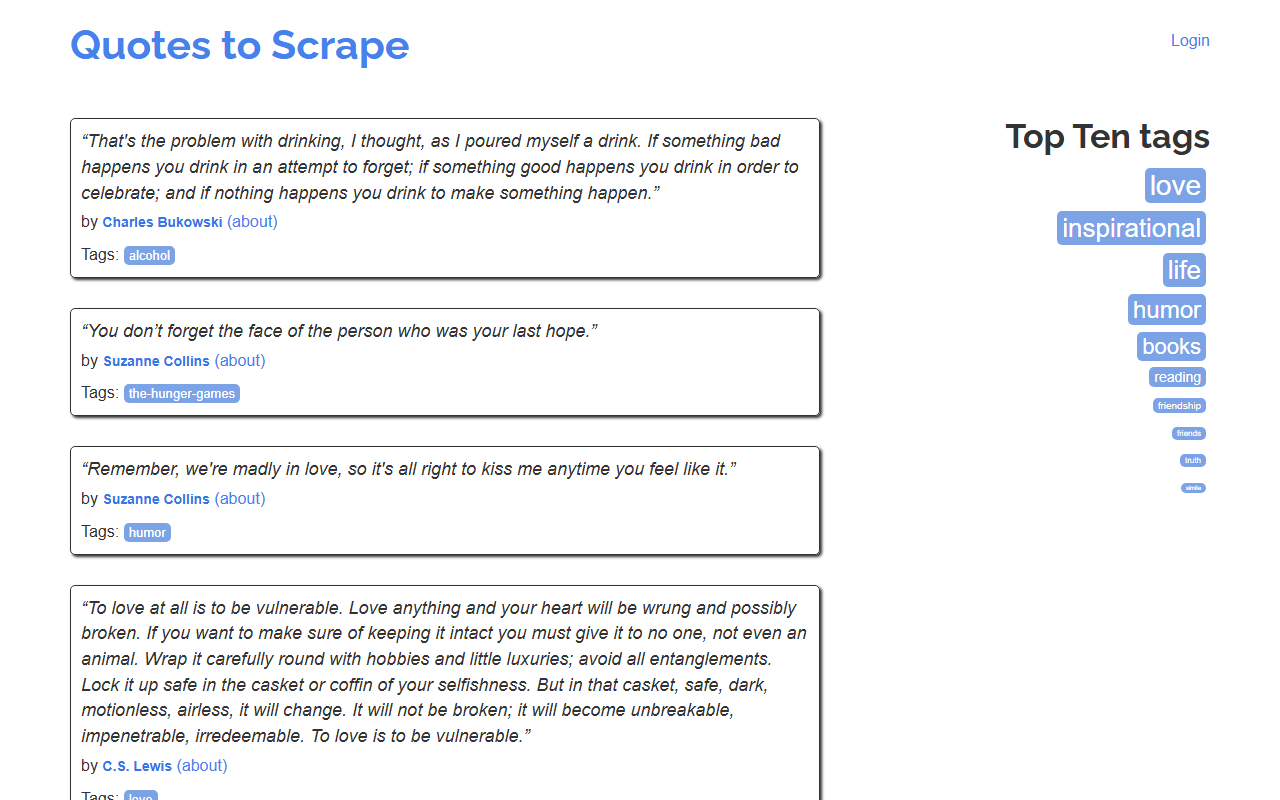
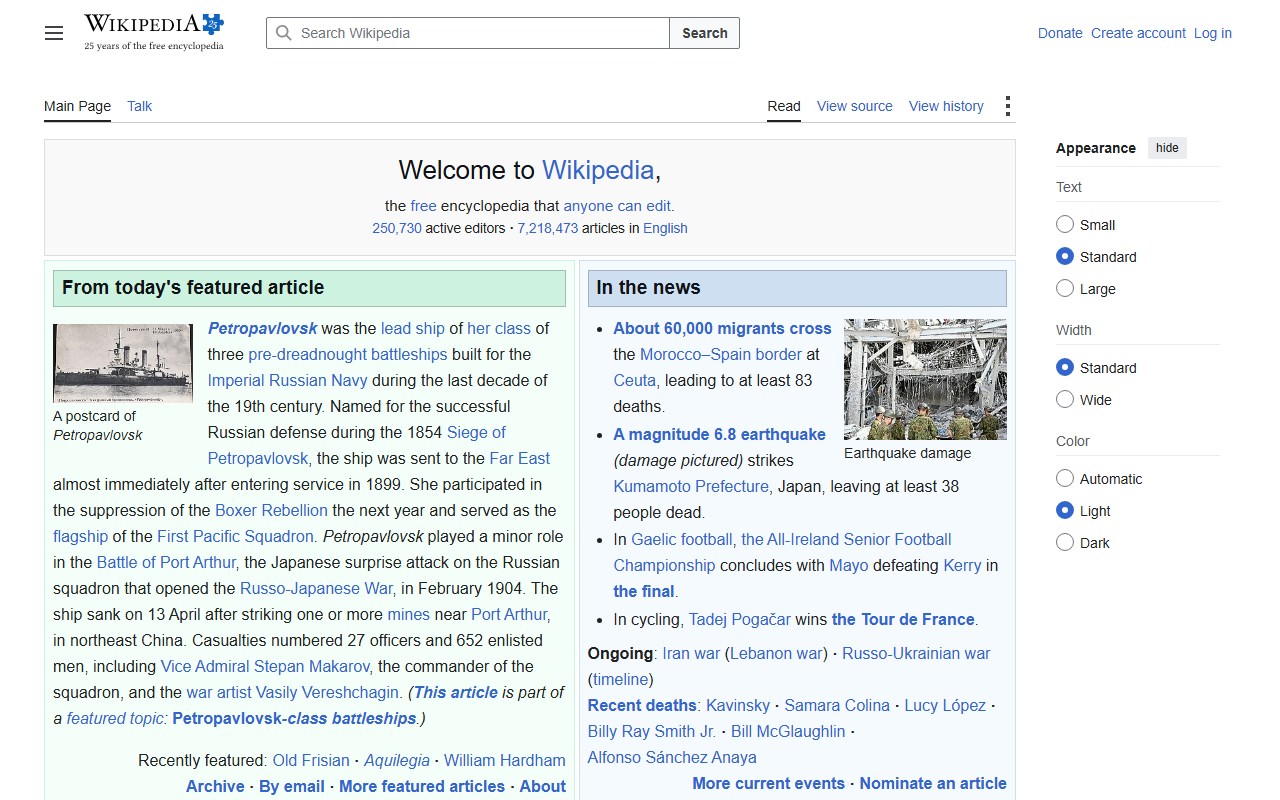
refactor(actions): implement execute_visual_action dispatcher and coordinate bounds clamping

diff --git a/browser-agent/browser/actions.py b/browser-agent/browser/actions.py
@@ -1,169 +1,166 @@
 import time
 import logging
-from typing import Dict, Any
+from typing import Dict, Any, Tuple, Optional
 from playwright.sync_api import TimeoutError as PlaywrightTimeoutError, Error as PlaywrightError
 from browser.controller import BrowserController
 
 logger = logging.getLogger("browser_agent.browser.actions")
+
+def validate_and_clamp_coordinates(
+    x: int,
+    y: int,
+    viewport_w: int,
+    viewport_h: int
+) -> Tuple[int, int]:
+    """
+    Validates and clamps pixel coordinates within active viewport boundaries [0, viewport_w - 1] x [0, viewport_h - 1].
+    Logs warnings if predicted coordinates fall outside visual boundaries.
+    """
+    clamped_x = max(0, min(int(x), viewport_w - 1))
+    clamped_y = max(0, min(int(y), viewport_h - 1))
+
+    if clamped_x != x or clamped_y != y:
+        logger.warning(
+            f"Coordinate out of bounds warning: Predicted ({x}, {y}) clamped to ({clamped_x}, {clamped_y}) "
+            f"for viewport ({viewport_w}x{viewport_h})."
+        )
+
+    return clamped_x, clamped_y
+
+def execute_visual_action(
+    controller: BrowserController,
+    action_data: Dict[str, Any]
+) -> Tuple[bool, str]:
+    """
+    Translates visual AI decisions into direct Playwright mouse and keyboard hardware commands.
+    Returns tuple: (success_bool, message_str).
+    """
+    action_type = action_data.get("action")
+    reasoning = action_data.get("reasoning", "")
+    viewport_w, viewport_h = controller.get_viewport_dimensions()
+
+    try:
+        if action_type in ("click", "click_coordinate"):
+            x = action_data.get("x")
+            y = action_data.get("y")
+
+            if x is None or y is None:
+                # Fallback if selector is provided
+                selector = action_data.get("selector")
+                if selector:
+                    controller.click(selector)
+                    return True, f"Clicked selector '{selector}'"
+                return False, "Click action requires 'x' and 'y' pixel coordinates or a selector."
+
+            cx, cy = validate_and_clamp_coordinates(x, y, viewport_w, viewport_h)
+            controller.mouse_move(cx, cy)
+            controller.mouse_click(cx, cy)
+            time.sleep(0.5)
+            return True, f"Clicked at ({cx}, {cy})"
+
+        elif action_type == "type":
+            text = action_data.get("text", "")
+            x = action_data.get("x")
+            y = action_data.get("y")
+
+            if x is not None and y is not None:
+                cx, cy = validate_and_clamp_coordinates(x, y, viewport_w, viewport_h)
+                controller.mouse_move(cx, cy)
+                controller.mouse_click(cx, cy)
+                time.sleep(0.2)
+                # Clear existing field value with Ctrl+A -> Backspace
+                controller.page.keyboard.press("Control+a")
+                controller.page.keyboard.press("Backspace")
+                time.sleep(0.1)
+
+            controller.keyboard_type(text)
+            time.sleep(0.5)
+            pos_str = f" at ({x}, {y})" if x is not None and y is not None else ""
+            return True, f"Typed '{text}'{pos_str}"
+
+        elif action_type in ("key", "keyboard_press"):
+            key_name = action_data.get("text") or action_data.get("value") or action_data.get("key", "Enter")
+            controller.keyboard_press(key_name)
+            time.sleep(0.5)
+            return True, f"Pressed key '{key_name}'"
+
+        elif action_type == "scroll":
+            direction = str(action_data.get("direction") or action_data.get("selector") or "down").lower()
+            amount = int(action_data.get("amount", 500))
+
+            delta_x, delta_y = 0, 0
+            if direction == "down":
+                delta_y = amount
+            elif direction == "up":
+                delta_y = -amount
+            elif direction == "right":
+                delta_x = amount
+            elif direction == "left":
+                delta_x = -amount
+            else:
+                delta_y = amount
+
+            controller.mouse_scroll(delta_x, delta_y)
+            return True, f"Scrolled {direction} by {amount}px"
+
+        elif action_type == "drag_and_drop":
+            start_x = action_data.get("start_x", 0)
+            start_y = action_data.get("start_y", 0)
+            end_x = action_data.get("end_x", 0)
+            end_y = action_data.get("end_y", 0)
+
+            cs_x, cs_y = validate_and_clamp_coordinates(start_x, start_y, viewport_w, viewport_h)
+            ce_x, ce_y = validate_and_clamp_coordinates(end_x, end_y, viewport_w, viewport_h)
+
+            controller.page.mouse.move(cs_x, cs_y)
+            controller.page.mouse.down()
+            controller.page.mouse.move(ce_x, ce_y, steps=10)
+            controller.page.mouse.up()
+            time.sleep(0.5)
+            return True, f"Dragged from ({cs_x}, {cs_y}) to ({ce_x}, {ce_y})"
+
+        elif action_type == "select":
+            selector = action_data.get("selector")
+            value = action_data.get("value") or action_data.get("text") or ""
+            if selector:
+                controller.select_option(selector, value)
+                return True, f"Selected option '{value}' in '{selector}'"
+            return False, "Select action requires a selector."
+
+        elif action_type == "wait":
+            time.sleep(2)
+            return True, "Waited 2 seconds for page load."
+
+        elif action_type == "done":
+            return True, f"Task completed by agent: {reasoning}"
+
+        else:
+            return False, f"Unknown action type '{action_type}'"
+
+    except PlaywrightTimeoutError as te:
+        logger.error(f"Playwright Timeout Error during action '{action_type}': {te}")
+        return False, f"Action '{action_type}' timed out."
+
+    except PlaywrightError as pe:
+        logger.error(f"Playwright Error during action '{action_type}': {pe}")
+        return False, f"Playwright error during action '{action_type}': {pe}"
+
+    except Exception as e:
+        logger.error(f"Unexpected error executing action '{action_type}': {e}")
+        return False, f"Execution exception: {e}"
 
 def execute_action(
     controller: BrowserController,
     action_dict: Dict[str, Any]
 ) -> Dict[str, Any]:
     """
-    Executes action dictionary safely with structured error outputs, coordinate clicks, and stale element recovery.
+    Legacy wrapper maintaining backward compatibility for existing code callers.
+    Returns structured dictionary.
     """
-    action_type = action_dict.get("action")
-    selector = action_dict.get("selector")
-    text = action_dict.get("text")
-    value = action_dict.get("value")
-    x = action_dict.get("x")
-    y = action_dict.get("y")
-    reasoning = action_dict.get("reasoning", "")
-
-    logger.info(f"Executing Action: '{action_type}' | Selector: '{selector}' | Coords: ({x}, {y}) | Text: '{text}' | Value: '{value}'")
-
-    try:
-        if action_type in ("click_coordinate", "click") and (x is not None and y is not None):
-            controller.click_coordinate(int(x), int(y))
-            time.sleep(1)
-            return {
-                "success": True,
-                "error_type": None,
-                "message": f"Successfully clicked pixel coordinates ({x}, {y}).",
-                "stale_element": False
-            }
-
-        elif action_type == "click":
-            if not selector:
-                return {
-                    "success": False,
-                    "error_type": "missing_selector",
-                    "message": "Click action requires a valid 'selector' or (x, y) coordinates.",
-                    "stale_element": False
-                }
-            try:
-                controller.click(selector)
-            except PlaywrightTimeoutError:
-                logger.warning(f"Click selector '{selector}' timed out. Re-attempting locator check...")
-                time.sleep(1)
-                controller.click(selector, timeout=5000)
-
-            time.sleep(1)
-            return {
-                "success": True,
-                "error_type": None,
-                "message": f"Successfully clicked '{selector}'.",
-                "stale_element": False
-            }
-
-        elif action_type == "type":
-            if not selector:
-                return {
-                    "success": False,
-                    "error_type": "missing_selector",
-                    "message": "Type action requires a valid 'selector'.",
-                    "stale_element": False
-                }
-            if text is None:
-                text = ""
-            try:
-                controller.type_text(selector, text)
-            except PlaywrightTimeoutError:
-                logger.warning(f"Type selector '{selector}' timed out. Re-attempting locator check...")
-                time.sleep(1)
-                controller.type_text(selector, text, timeout=5000)
-
-            time.sleep(1)
-            return {
-                "success": True,
-                "error_type": None,
-                "message": f"Successfully typed '{text}' into '{selector}'.",
-                "stale_element": False
-            }
-
-        elif action_type == "select":
-            if not selector:
-                return {
-                    "success": False,
-                    "error_type": "missing_selector",
-                    "message": "Select action requires a valid 'selector'.",
-                    "stale_element": False
-                }
-            target_value = value or text or ""
-            try:
-                controller.select_option(selector, target_value)
-            except PlaywrightTimeoutError:
-                logger.warning(f"Select option '{target_value}' in '{selector}' timed out. Retrying...")
-                time.sleep(1)
-                controller.select_option(selector, target_value, timeout=5000)
-
-            time.sleep(1)
-            return {
-                "success": True,
-                "error_type": None,
-                "message": f"Successfully selected option '{target_value}' in '{selector}'.",
-                "stale_element": False
-            }
-
-        elif action_type == "scroll":
-            direction = selector if selector in ("up", "down") else "down"
-            controller.scroll(direction=direction)
-            return {
-                "success": True,
-                "error_type": None,
-                "message": f"Successfully scrolled page {direction}.",
-                "stale_element": False
-            }
-
-        elif action_type == "wait":
-            time.sleep(2)
-            return {
-                "success": True,
-                "error_type": None,
-                "message": "Waited 2 seconds for page update.",
-                "stale_element": False
-            }
-
-        elif action_type == "done":
-            return {
-                "success": True,
-                "error_type": None,
-                "message": f"Task completed by agent: {reasoning}",
-                "stale_element": False
-            }
-
-        else:
-            return {
-                "success": False,
-                "error_type": "unknown_action",
-                "message": f"Unknown action type '{action_type}'.",
-                "stale_element": False
-            }
-
-    except PlaywrightTimeoutError as te:
-        logger.error(f"Playwright Timeout Error on selector '{selector}': {te}")
-        return {
-            "success": False,
-            "error_type": "selector_timeout",
-            "message": f"Element '{selector}' was not found or not interactable within timeout.",
-            "stale_element": True
-        }
-
-    except PlaywrightError as pe:
-        logger.error(f"Playwright Error on selector '{selector}': {pe}")
-        return {
-            "success": False,
-            "error_type": "playwright_error",
-            "message": f"Playwright error interacting with '{selector}': {pe}",
-            "stale_element": True
-        }
-
-    except Exception as e:
-        logger.error(f"Unexpected error executing action '{action_type}': {e}")
-        return {
-            "success": False,
-            "error_type": "unexpected_error",
-            "message": f"Failed with exception: {e}",
-            "stale_element": False
-        }
+    success, message = execute_visual_action(controller, action_dict)
+    return {
+        "success": success,
+        "error_type": None if success else "execution_error",
+        "message": message,
+        "stale_element": False
+    }
